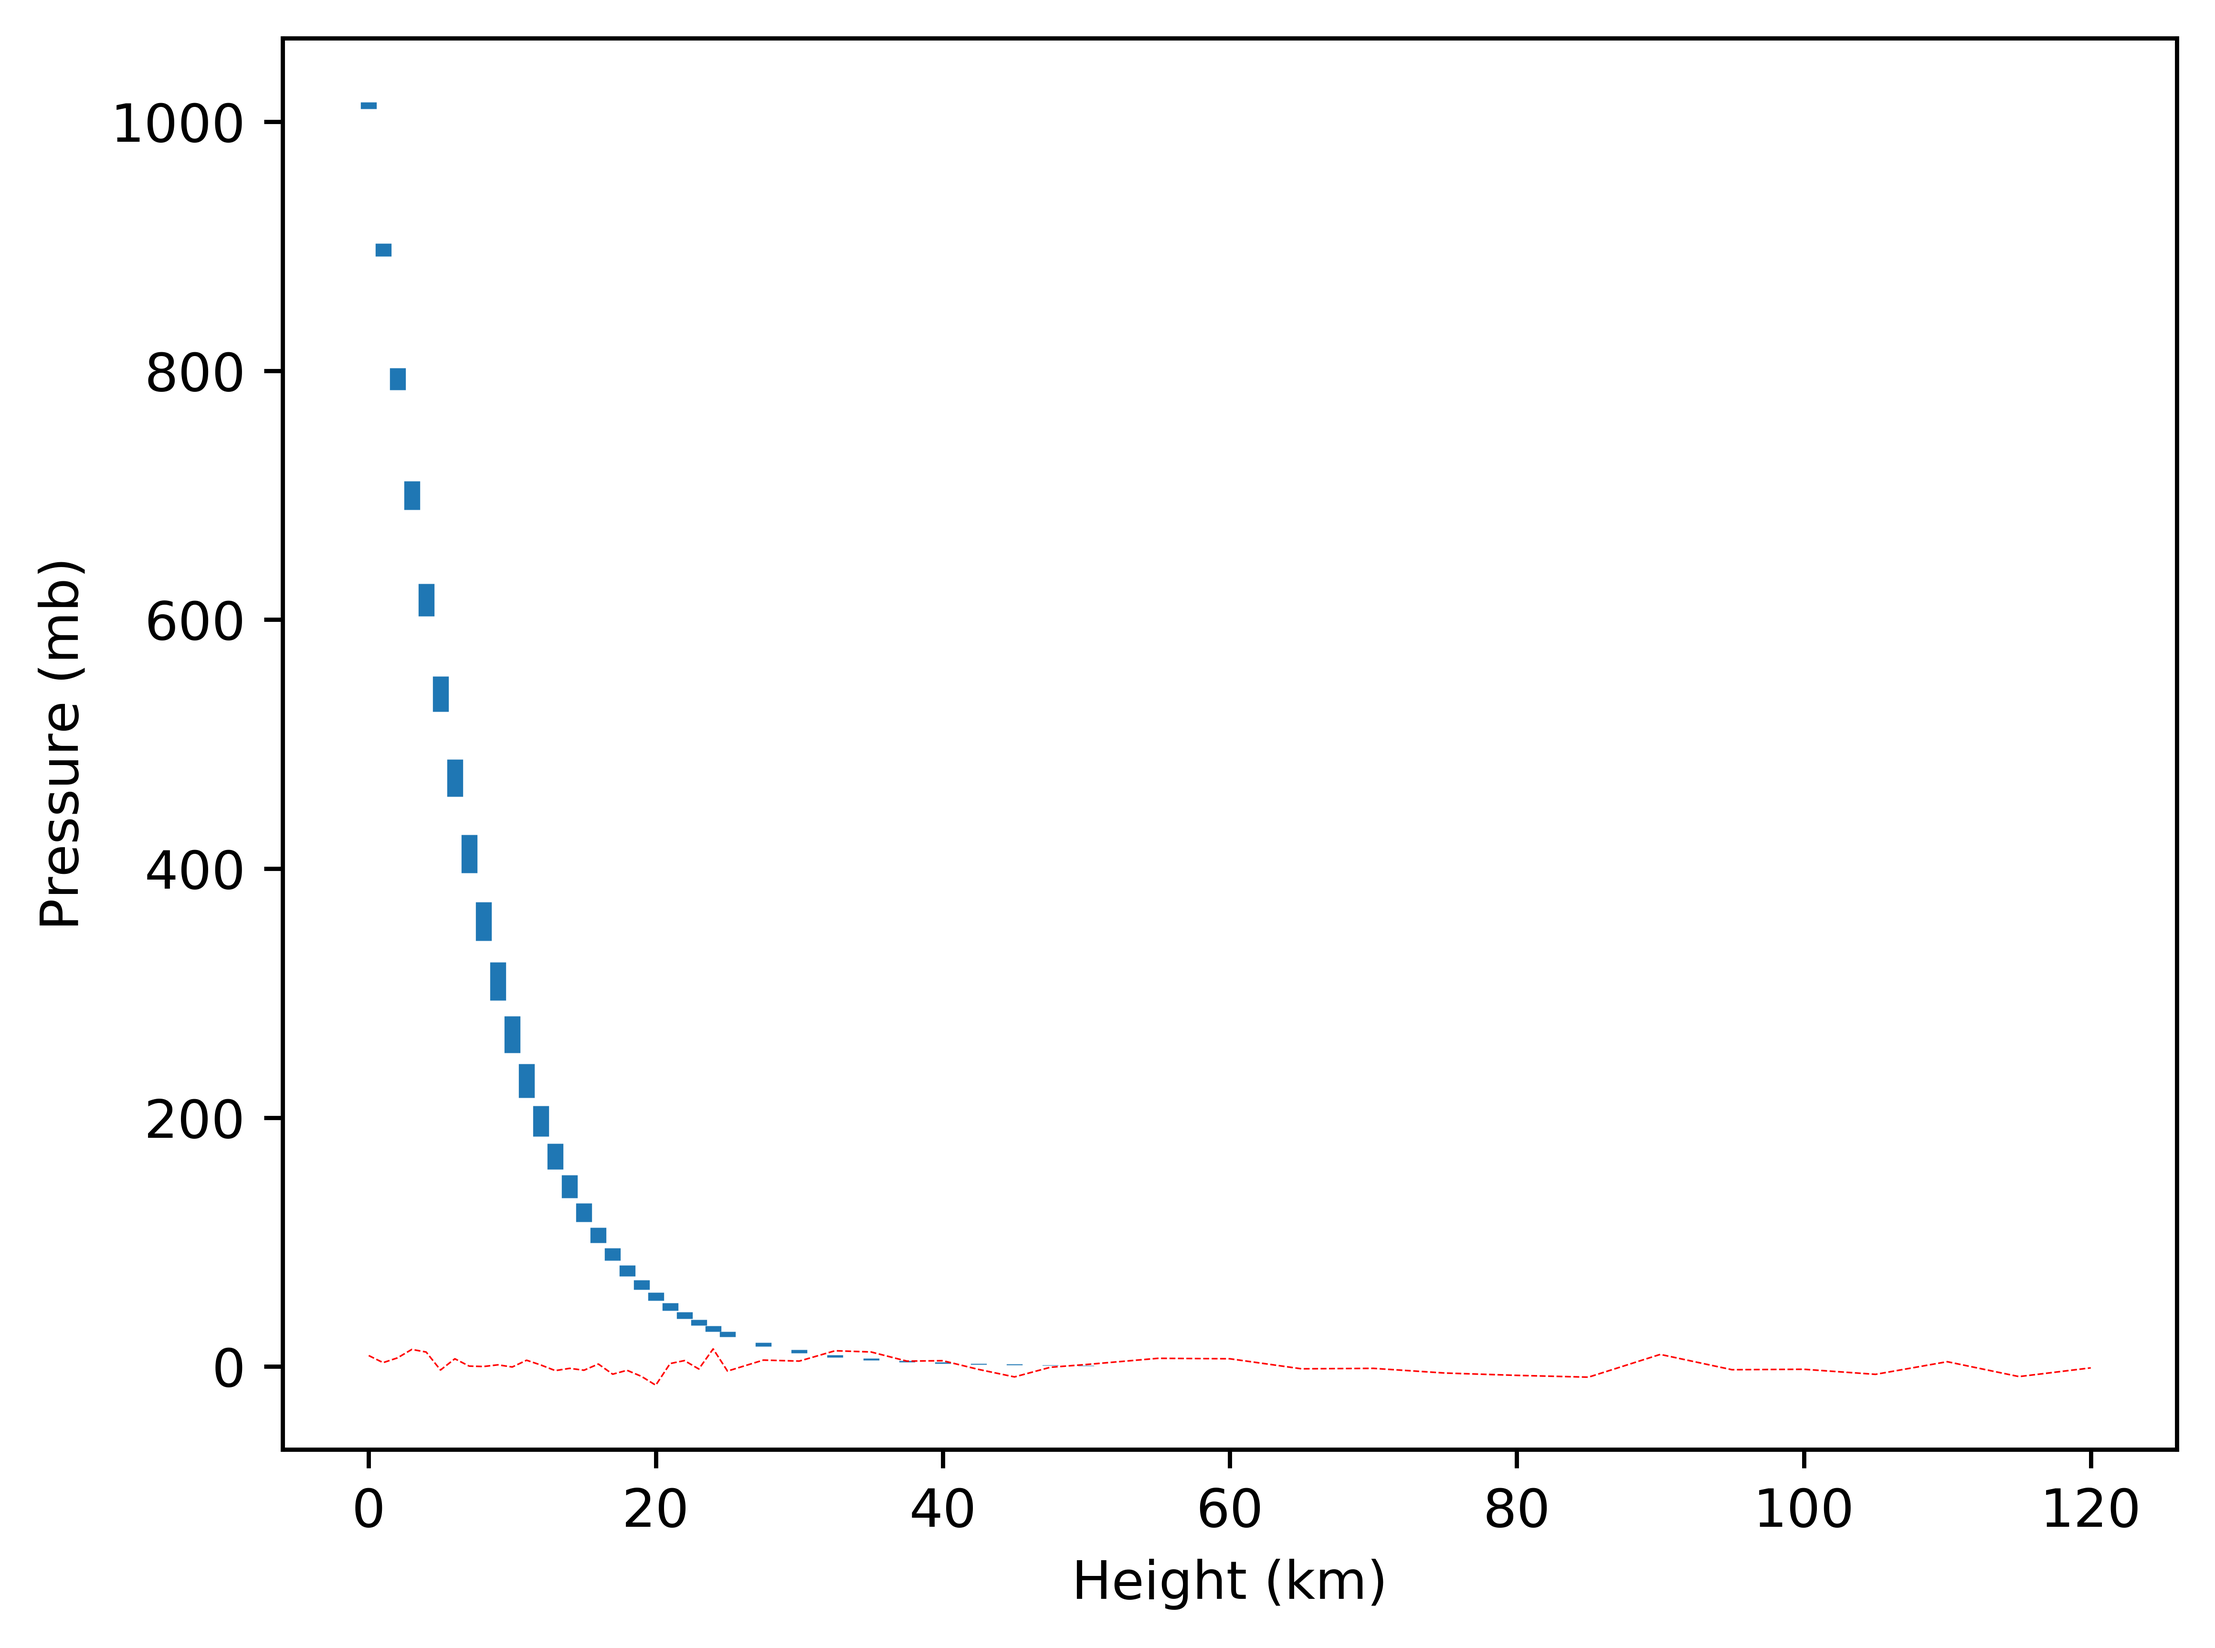
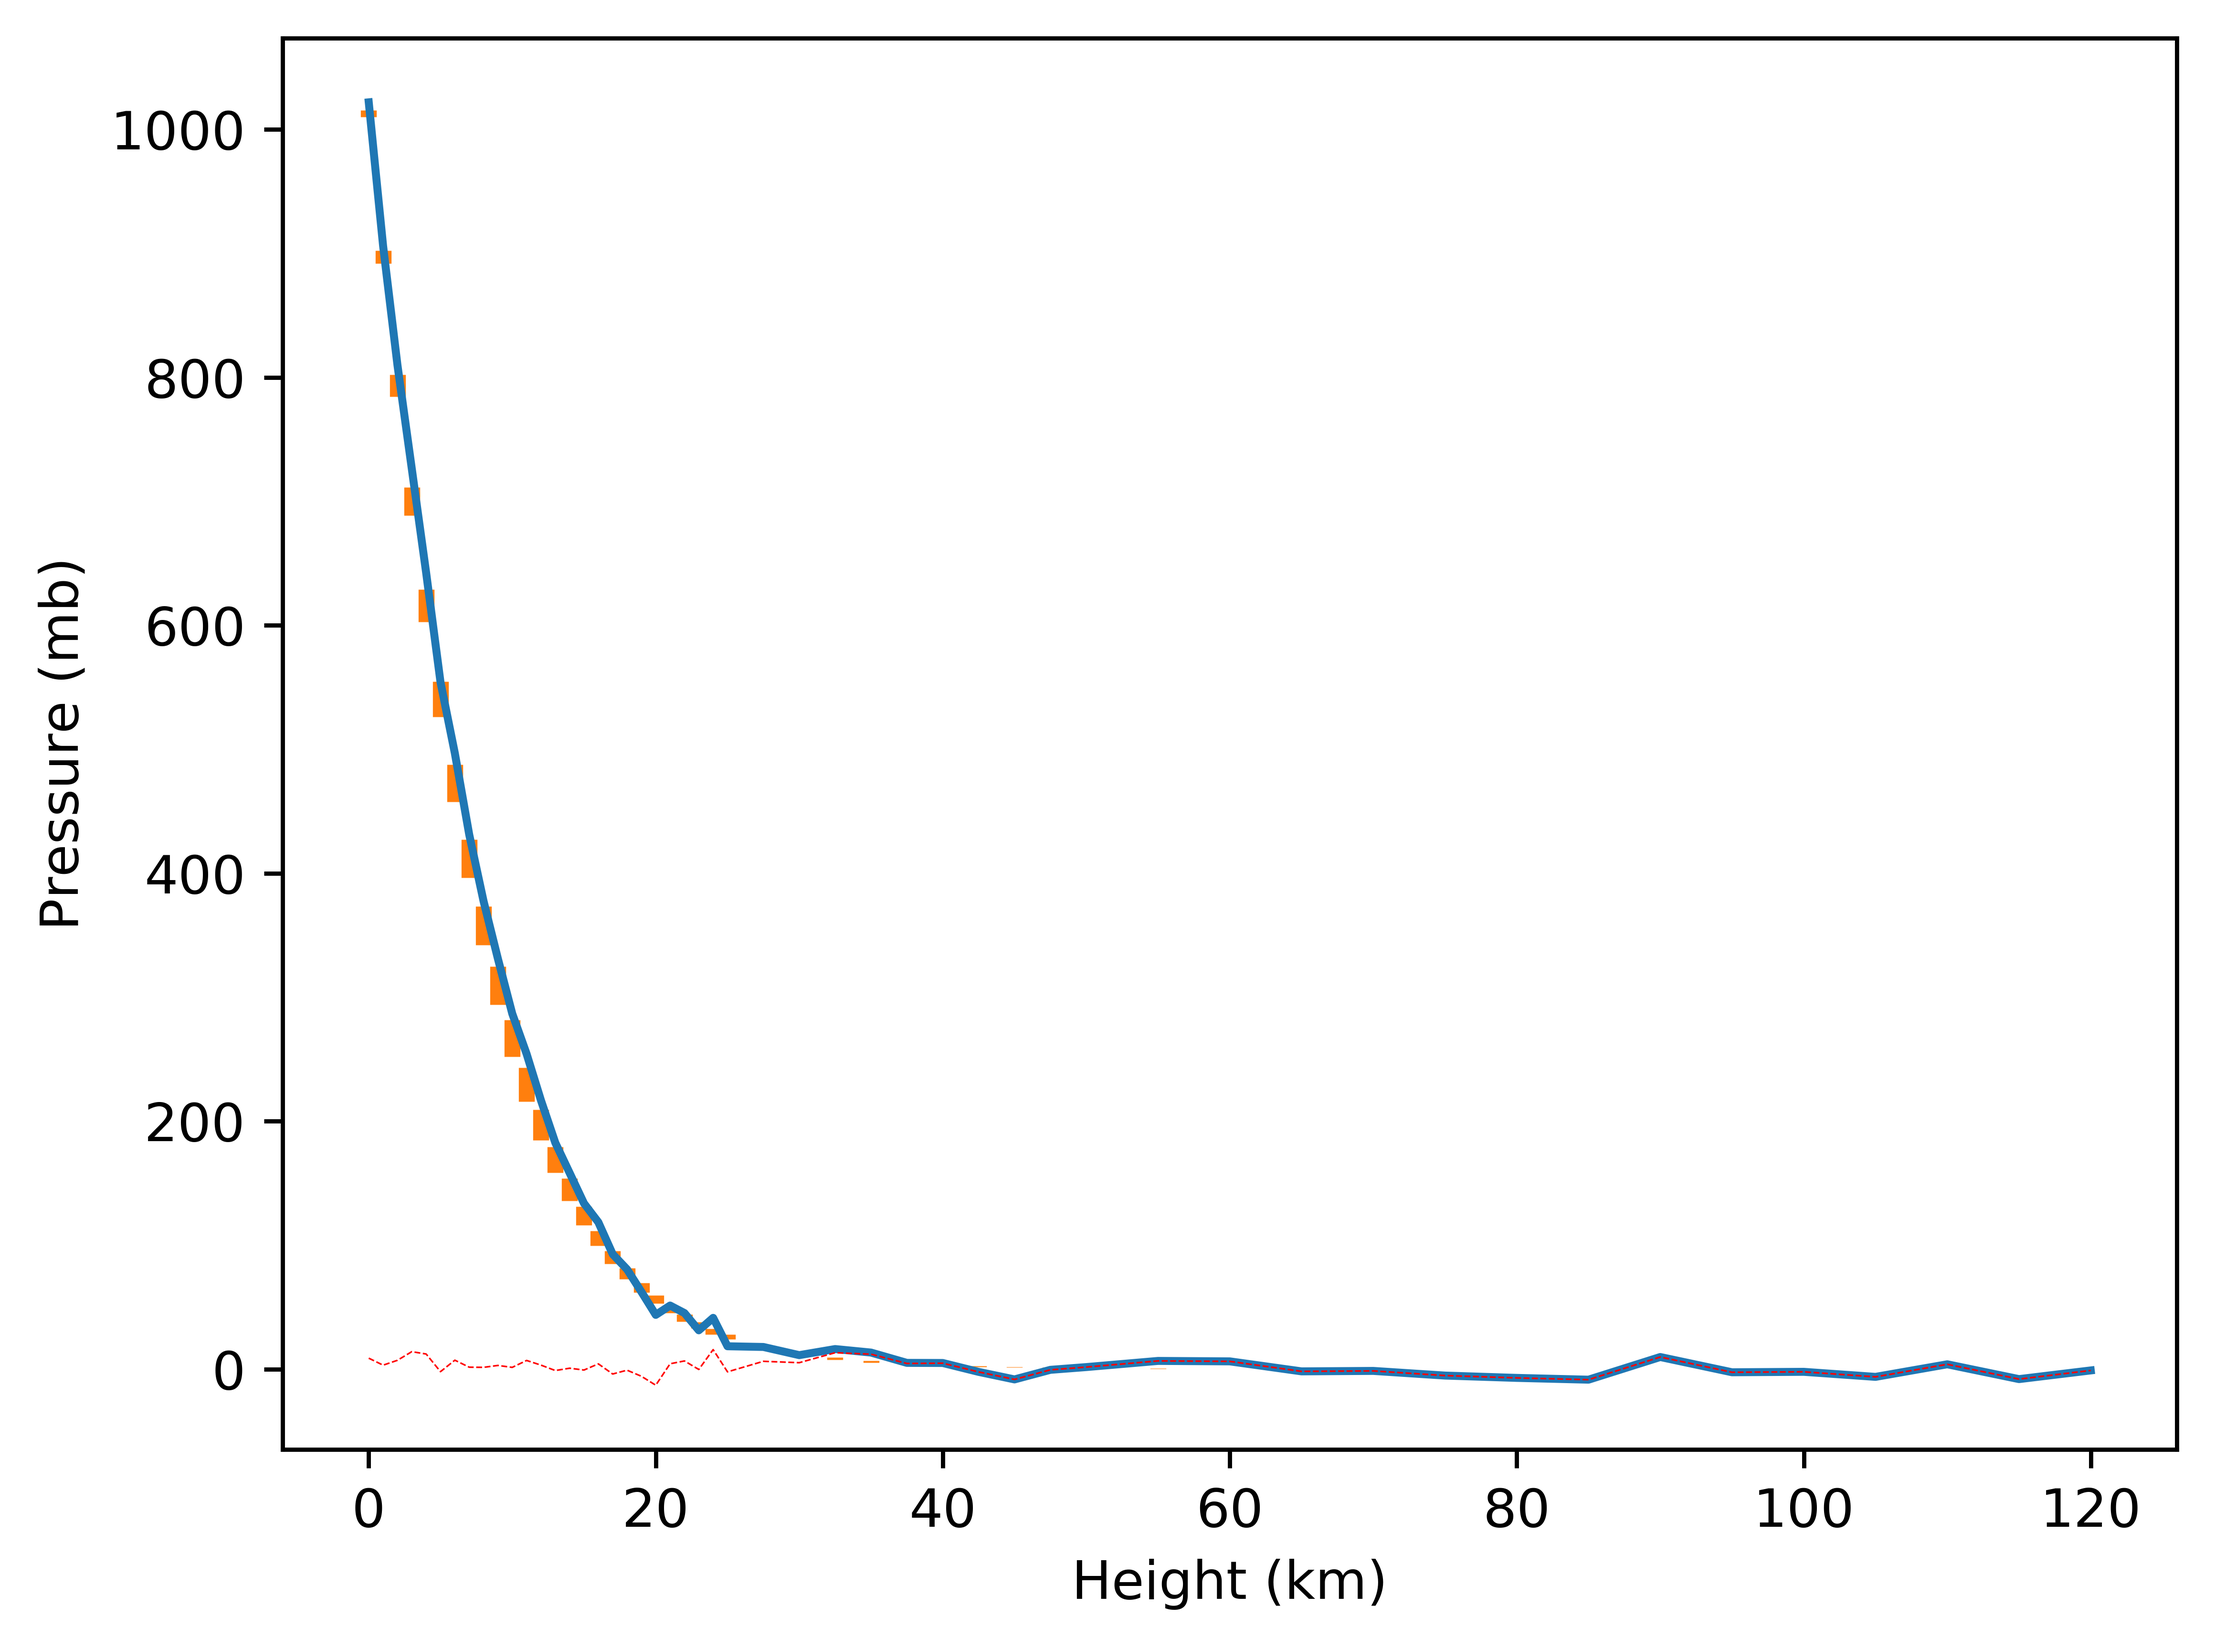
Misc changes

diff --git a/Inversion_Package/inversion_wrapper.py b/Inversion_Package/inversion_wrapper.py
@@ -172,8 +172,8 @@ def calcResidual(wds, nwls):
     with open('actualnum.pkl', 'rb') as f: actualnum = pickle.load(f)
     print(f'current:{wds["555"].RV11[0]}')
     print(f'actualnum:{actualnum[0]}')
-    #print(actualnum - wds['555'].RV11)
-    return actualnum - wds['555'].RV11
+    #print(wds['555'].RV11 - actualnum)
+    return wds['555'].RV11 - actualnum
 
 
 def getResidual(params):
@@ -208,7 +208,11 @@ def importPickles():
 def invert():
     
     params = Parameters()
-    params.add('F7', value=0.0133, min=0, max=0.04, brute_step=0.01) #Solution : .0143 #TODO Max to 15m/s wind speed
+    # params.add('F7', value=0.0133, min=0, max=0.04) #Solution : .0143 #TODO Max to 15m/s wind speed
+    # params.add('NZ0', value=1E-2, min=0, max=0.1) #Solutions : 1.00E-02
+    # params.add('NZ1', value=1E-2, min=0, max=0.1) #Solution : 3.500E-02
+
+    params.add('F7', value=0.0133, min=0, max=0.04) #Solution : .0143 #TODO Max to 15m/s wind speed
     params.add('NZ0', value=1E-2, min=0, max=0.1) #Solutions : 1.00E-02
     params.add('NZ1', value=1E-2, min=0, max=0.1) #Solution : 3.500E-02
 
@@ -217,6 +221,7 @@ def invert():
     result = mini.leastsq()
 
     print(result.params)
+    print(result.message)
 
 
 

diff --git a/Inversion_Package/fit_barometric.py b/Inversion_Package/fit_barometric.py
@@ -30,7 +30,7 @@ with open('data/Lbtropical.pkl', 'rb') as f:
     Lbtrop = pickle.load(f)
 
 
-print(Lbtrop[0])
+print(Lbtrop[0]/1000)
 
 ###############################################################################
 #Residual Function
@@ -86,7 +86,7 @@ data = (mean + np.random.normal(0, std[0], 50))
 
 
 params = Parameters()
-params.add('Lb', value=-1) #Temperature Lapse Rate
+params.add('Lb', value=1, min=-10, max=10) #Temperature Lapse Rate
 #params.add('h', value=0.0) #Height at which 
 
 #Tropics
@@ -98,11 +98,12 @@ np.random.seed(0)
 ptrop = (ptrop + np.random.normal(0,5,50))
 
 plt.plot(heights,ptrop)
-plt.show()
+#plt.show()
 
-mini = Minimizer(get_residual, params, fcn_args=(heights, ptrop))
-result = mini.leastsq()
+mini = Minimizer(get_residual, params,method='brute', fcn_args=(heights, ptrop))
+result = mini.brute()
 print(result.params)
+
 
 fit = get_residual(result.params, heights, ptrop)
 

diff --git a/Inversion_Package/test.py b/Inversion_Package/test.py
@@ -5,6 +5,7 @@ import time
 import sys
 import subprocess
 import pyautogui
+import lmfit
 
 sys.path.insert(0, 'C:/Users/Iraz/Documents/Docs/Programs/Cloud_mask/Inversion_Package/g_code/')
 
@@ -21,8 +22,6 @@ os.chdir('./Inversion_Package/')
 # Random
 
 # print(time.strftime(r'%X'))
-
-
 
 
 
@@ -79,9 +78,9 @@ os.chdir('./Inversion_Package/')
 
 # get_residual()
 
-print('hello')
-time.sleep(3)
-print('hello')
+# print('hello')
+# time.sleep(3)
+# print('hello')
 
 
 
